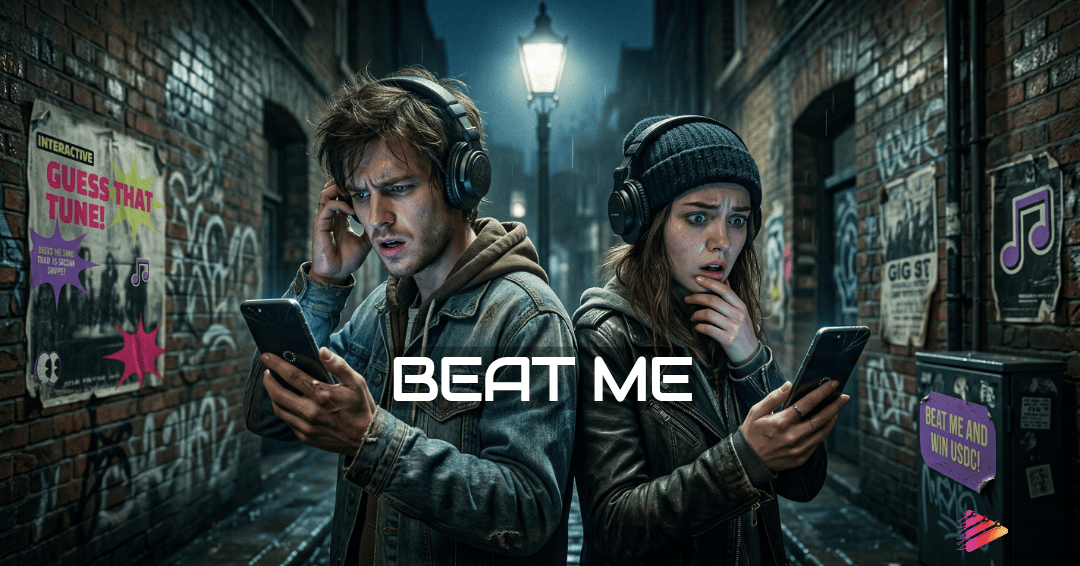
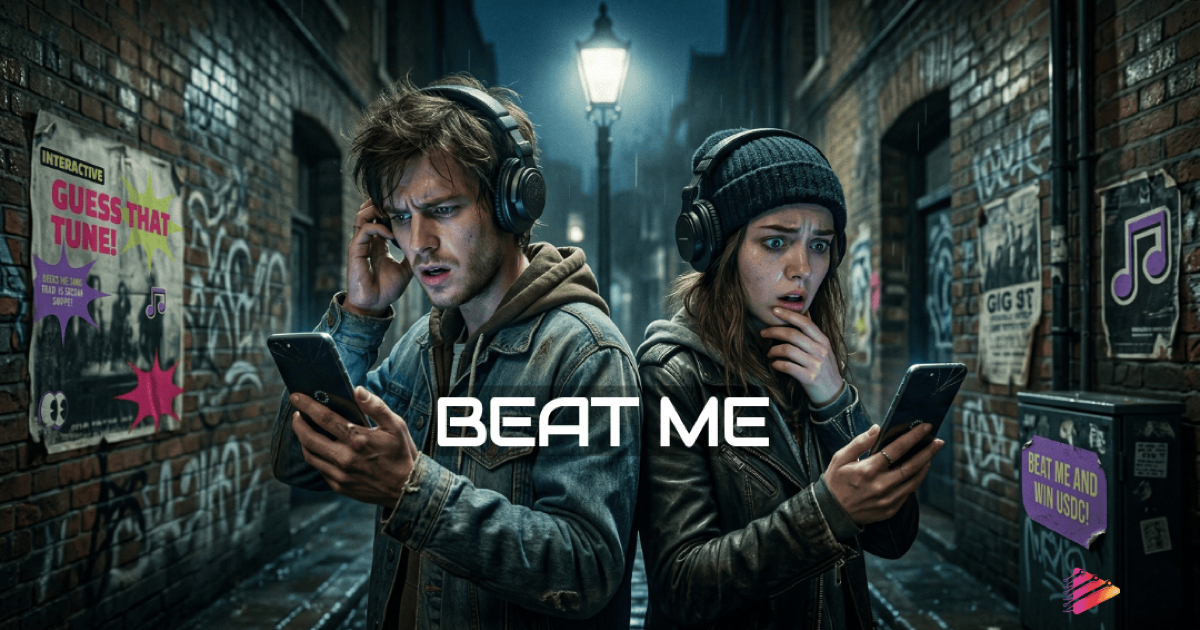
Use BEAT_ME thumbnail for domain shares and score OG overlays.
Point homepage and Farcaster metadata at the static thumbnail, remove dynamic opengraph routes, and composite score/rank text on the same image for /api/og share previews.

diff --git a/lib/og/beatMeOgLayout.tsx b/lib/og/beatMeOgLayout.tsx
@@ -1,81 +1,150 @@
 import type { ReactElement } from 'react';
 
+export type BeatMeOgMode = 'thumbnailOnly' | 'scoreOverlay';
+
 export type BeatMeOgOptions = {
-  headline: string;
+  mode?: BeatMeOgMode;
+  backgroundImageUrl?: string;
+  headline?: string;
   subline?: string;
   score?: string;
   rank?: string;
 };
 
+const OG_WIDTH = 1200;
+const OG_HEIGHT = 630;
+
 export const BeatMeOgLayout = ({
+  mode = 'scoreOverlay',
+  backgroundImageUrl,
   headline,
   subline = 'Name the tune, win a reward.',
   score,
   rank,
-}: BeatMeOgOptions): ReactElement => (
-  <div
-    style={{
-      width: '100%',
-      height: '100%',
-      display: 'flex',
-      flexDirection: 'column',
-      alignItems: 'center',
-      justifyContent: 'center',
-      background: 'linear-gradient(135deg, #0a0014 0%, #1a0533 40%, #2d0a4e 100%)',
-      color: '#ffffff',
-      fontFamily: 'system-ui, sans-serif',
-      padding: '48px',
-    }}
-  >
-    <div
-      style={{
-        display: 'flex',
-        flexDirection: 'column',
-        alignItems: 'center',
-        justifyContent: 'center',
-        border: '3px solid #a855f7',
-        borderRadius: '32px',
-        padding: '56px 72px',
-        background: 'rgba(0,0,0,0.45)',
-        maxWidth: '1000px',
-        width: '100%',
-      }}
-    >
+}: BeatMeOgOptions): ReactElement => {
+  if (mode === 'thumbnailOnly' && backgroundImageUrl) {
+    return (
       <div
         style={{
-          fontSize: 72,
-          fontWeight: 800,
-          letterSpacing: '0.08em',
-          marginBottom: 16,
-          background: 'linear-gradient(90deg, #c084fc, #f472b6)',
-          backgroundClip: 'text',
-          color: 'transparent',
+          width: '100%',
+          height: '100%',
+          display: 'flex',
+          position: 'relative',
         }}
       >
-        BEAT ME
+        <img
+          src={backgroundImageUrl}
+          alt=""
+          width={OG_WIDTH}
+          height={OG_HEIGHT}
+          style={{
+            width: '100%',
+            height: '100%',
+            objectFit: 'cover',
+          }}
+        />
       </div>
-      <div style={{ fontSize: 44, fontWeight: 700, textAlign: 'center', marginBottom: 12 }}>
-        {headline}
-      </div>
-      {score && (
+    );
+  }
+
+  return (
+    <div
+      style={{
+        width: '100%',
+        height: '100%',
+        display: 'flex',
+        position: 'relative',
+      }}
+    >
+      {backgroundImageUrl && (
+        <img
+          src={backgroundImageUrl}
+          alt=""
+          width={OG_WIDTH}
+          height={OG_HEIGHT}
+          style={{
+            position: 'absolute',
+            top: 0,
+            left: 0,
+            width: '100%',
+            height: '100%',
+            objectFit: 'cover',
+          }}
+        />
+      )}
+      <div
+        style={{
+          position: 'absolute',
+          top: 0,
+          left: 0,
+          width: '100%',
+          height: '100%',
+          background: 'linear-gradient(180deg, rgba(0,0,0,0.15) 0%, rgba(0,0,0,0.75) 100%)',
+        }}
+      />
+      <div
+        style={{
+          position: 'relative',
+          flex: 1,
+          display: 'flex',
+          flexDirection: 'column',
+          alignItems: 'center',
+          justifyContent: 'flex-end',
+          padding: '48px 56px',
+          color: '#ffffff',
+          fontFamily: 'system-ui, sans-serif',
+        }}
+      >
+        {headline && (
+          <div
+            style={{
+              fontSize: 44,
+              fontWeight: 700,
+              textAlign: 'center',
+              marginBottom: 12,
+              textShadow: '0 2px 12px rgba(0,0,0,0.8)',
+            }}
+          >
+            {headline}
+          </div>
+        )}
+        {score && (
+          <div
+            style={{
+              fontSize: 96,
+              fontWeight: 900,
+              color: '#fbbf24',
+              marginBottom: 12,
+              lineHeight: 1,
+              textShadow: '0 2px 16px rgba(0,0,0,0.9)',
+            }}
+          >
+            {Number(score).toLocaleString()} pts
+          </div>
+        )}
+        {rank && (
+          <div
+            style={{
+              fontSize: 32,
+              color: '#c4b5fd',
+              marginBottom: 12,
+              textShadow: '0 2px 8px rgba(0,0,0,0.8)',
+            }}
+          >
+            Rank #{rank} this week
+          </div>
+        )}
         <div
           style={{
-            fontSize: 96,
-            fontWeight: 900,
-            color: '#fbbf24',
-            marginBottom: 12,
-            lineHeight: 1,
+            fontSize: 28,
+            color: '#e5e7eb',
+            textAlign: 'center',
+            textShadow: '0 2px 8px rgba(0,0,0,0.8)',
           }}
         >
-          {Number(score).toLocaleString()} pts
+          {subline}
         </div>
-      )}
-      {rank && (
-        <div style={{ fontSize: 32, color: '#c4b5fd', marginBottom: 12 }}>
-          Rank #{rank} this week
-        </div>
-      )}
-      <div style={{ fontSize: 28, color: '#d1d5db', textAlign: 'center' }}>{subline}</div>
+      </div>
     </div>
-  </div>
-);
+  );
+};

diff --git a/app/layout.tsx b/app/layout.tsx
@@ -28,6 +28,8 @@ const siteUrl = getSiteUrl();
 
 const siteTitle = "BEAT ME";
 const siteDescription = "Name the tune, win a reward.";
+const ogThumbnailPath = "/assets/BEAT_ME_thumbnail.png";
+const ogThumbnailAlt = "BEAT ME — Name the tune, win a reward";
 
 export const metadata: Metadata = {
   metadataBase: new URL(siteUrl),
@@ -39,24 +41,39 @@ export const metadata: Metadata = {
     url: "/",
     siteName: siteTitle,
     type: "website",
+    images: [
+      {
+        url: ogThumbnailPath,
+        width: 1200,
+        height: 630,
+        alt: ogThumbnailAlt,
+        type: "image/png",
+      },
+    ],
   },
   twitter: {
     card: "summary_large_image",
     title: siteTitle,
     description: siteDescription,
+    images: [
+      {
+        url: ogThumbnailPath,
+        alt: ogThumbnailAlt,
+      },
+    ],
   },
   other: {
     "base:app_id": process.env.NEXT_PUBLIC_BASE_APP_ID ?? "",
     "fc:frame": JSON.stringify({
       version: "next",
-      imageUrl: `${siteUrl}/opengraph-image`,
+      imageUrl: `${siteUrl}${ogThumbnailPath}`,
       button: {
         title: "Can you BEAT ME?",
         action: {
           type: "launch_frame",
           name: "BEAT ME",
           url: siteUrl,
-          splashImageUrl: `${siteUrl}/opengraph-image`,
+          splashImageUrl: `${siteUrl}${ogThumbnailPath}`,
           splashBackgroundColor: "#000000"
         }
       }

diff --git a/app/api/og/route.tsx b/app/api/og/route.tsx
@@ -1,8 +1,11 @@
 import { ImageResponse } from 'next/og';
 import { NextRequest } from 'next/server';
 import { BeatMeOgLayout } from '@/lib/og/beatMeOgLayout';
+import { getSiteUrl } from '@/lib/config/site';
 
 export const runtime = 'edge';
+
+const OG_THUMBNAIL_PATH = '/assets/BEAT_ME_thumbnail.png';
 
 const headlineForType = (type: string, score: string, rank: string): string => {
   if (rank === '1') return 'New #1 on the weekly leaderboard!';
@@ -24,9 +27,12 @@ export const GET = async (req: NextRequest) => {
   const rank = searchParams.get('rank') ?? '';
   const type = searchParams.get('type') ?? 'game-complete';
   const headline = headlineForType(type, score, rank);
+  const backgroundImageUrl = `${getSiteUrl()}${OG_THUMBNAIL_PATH}`;
 
   return new ImageResponse(
     <BeatMeOgLayout
+      mode="scoreOverlay"
+      backgroundImageUrl={backgroundImageUrl}
       headline={headline}
       score={score}
       rank={rank || undefined}

diff --git a/public/.well-known/route.ts b/public/.well-known/route.ts
@@ -24,11 +24,11 @@ export async function GET() {
       "screenshotUrls": [],
       "primaryCategory": "games",
       "tags": ["music", "trivia", "earn"],
-      "heroImageUrl": "https://beatme.creativeplatform.xyz/opengraph-image",
+      "heroImageUrl": "https://beatme.creativeplatform.xyz/assets/BEAT_ME_thumbnail.png",
       "tagline": "Can you beat me?",
       "ogTitle": "BEAT ME",
       "ogDescription": "Name that tune, win your reward.",
-      "ogImageUrl": "https://beatme.creativeplatform.xyz/opengraph-image",
+      "ogImageUrl": "https://beatme.creativeplatform.xyz/assets/BEAT_ME_thumbnail.png",
       "noindex": true
     }
   });
